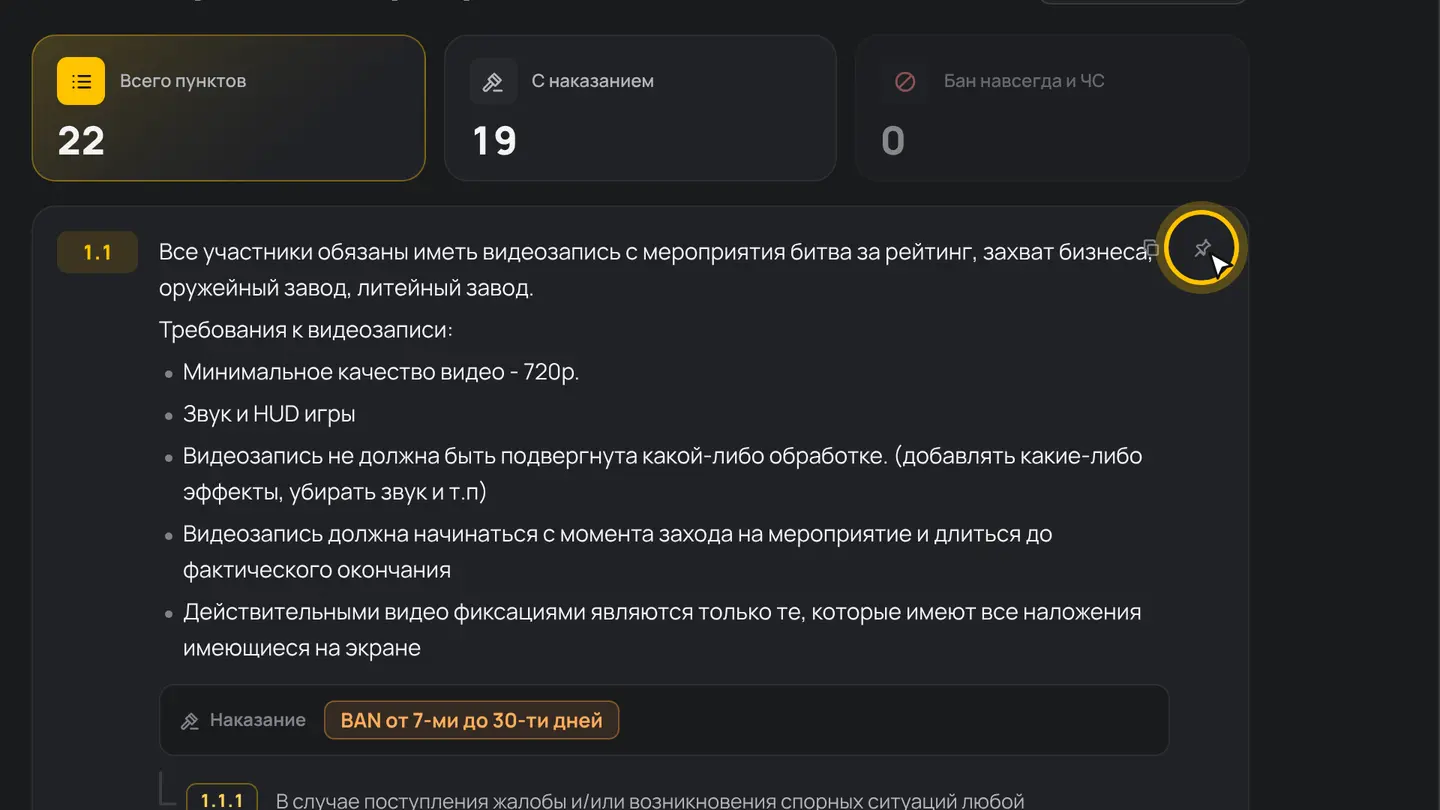
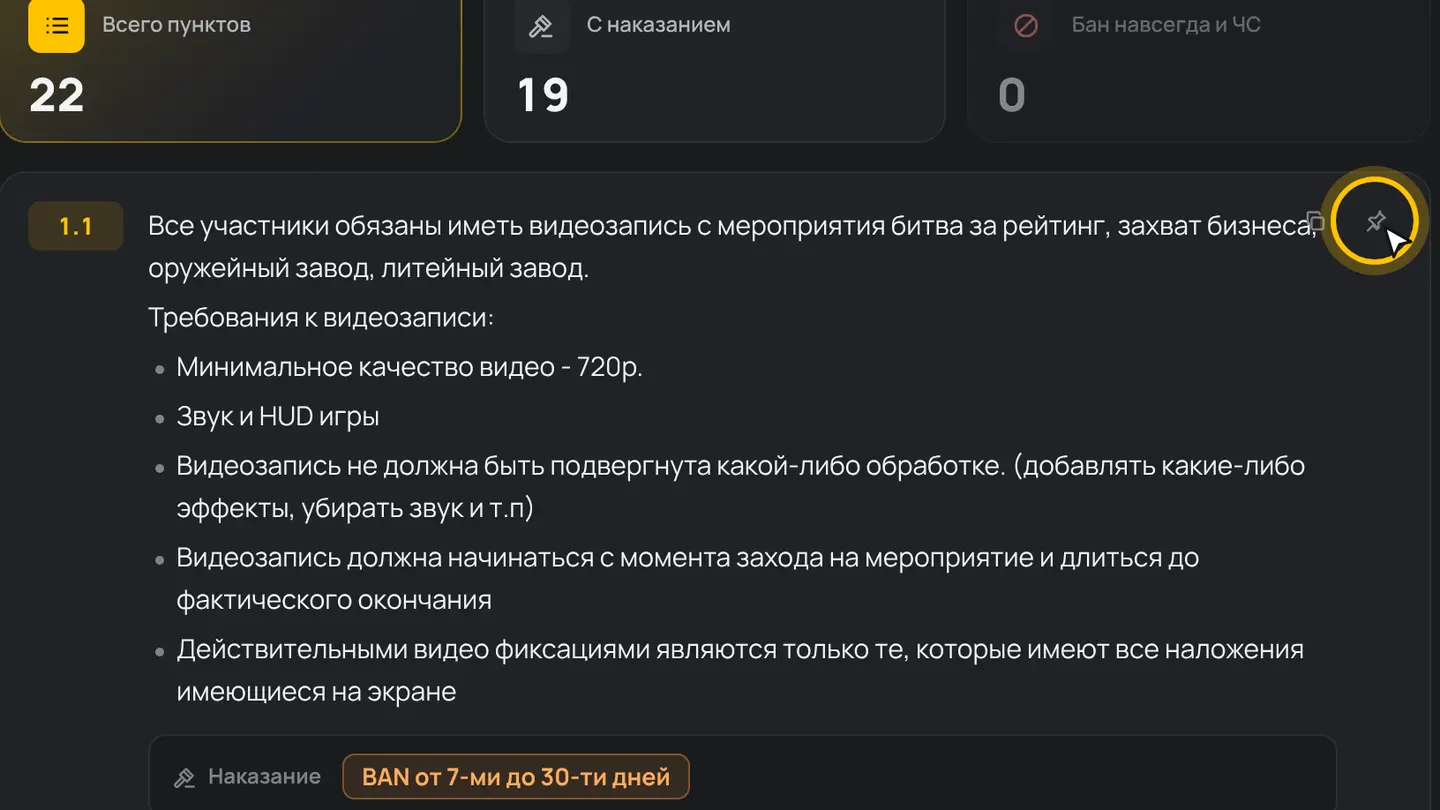
News guide: pictures on a cleaned screenshot
Chat, player ID, minimap and money are blurred out of the background.
Design approved by the user.

Claude-Session: https://claude.ai/code/session_01P2bz9izsEA6PNsVco3Z1NA

diff --git a/app/src/lib/components/News.svelte b/app/src/lib/components/News.svelte
@@ -91,7 +91,7 @@
   img { position: absolute; inset: 0; width: 100%; height: 100%; object-fit: cover; opacity: 0; transition: opacity 0.25s ease; user-select: none; }
   img.on { opacity: 1; }
 
-  .step { display: flex; gap: 12px; min-height: 108px; }
+  .step { display: flex; gap: 12px; min-height: 132px; }
   .n { flex-shrink: 0; display: grid; place-items: center; width: 26px; height: 26px; border-radius: 50%; background: var(--accent); color: var(--on-accent); font-size: var(--fs-xs); font-weight: 800; }
   h3 { margin: 2px 0 6px; font-size: var(--fs-md, 15px); font-weight: 800; }
   p { margin: 0 0 8px; color: var(--text-dim); font-size: var(--fs-sm); line-height: 1.55; }
